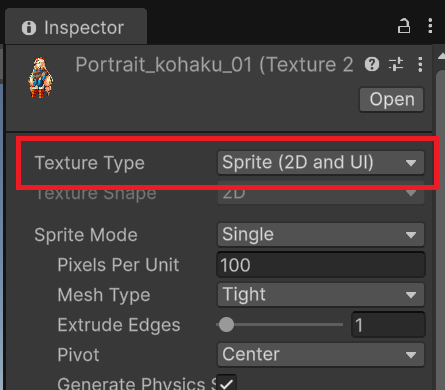
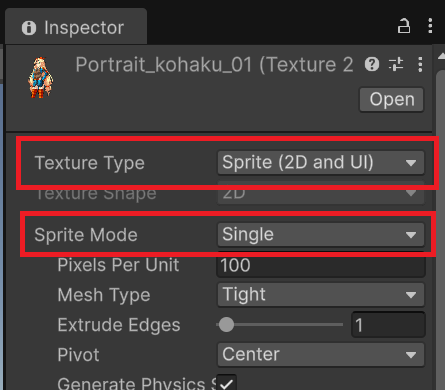
docs: 解説の設定もれ。

Changed region(s): [[0.0292, 0.5231, 0.9933, 0.6769]]

diff --git a/docs/conversation-scenes/character-placement/index.md b/docs/conversation-scenes/character-placement/index.md
@@ -44,7 +44,7 @@ Inspector ビューで Image ゲームオブジェクトを選択すると、`Im
 
 ![alt text](image-3.png)
 
-Project ビューでインポートした画像アセットを選択し、Inspector ビューで「Texture Type」を「Sprite (2D and UI)」に変更してください。
+Project ビューでインポートした画像アセットを選択し、Inspector ビューで「Texture Type」を「Sprite (2D and UI)」に、「Sprite Mode」を「Single」に変更してください。
 
 ![alt text](image-4.png)
 
